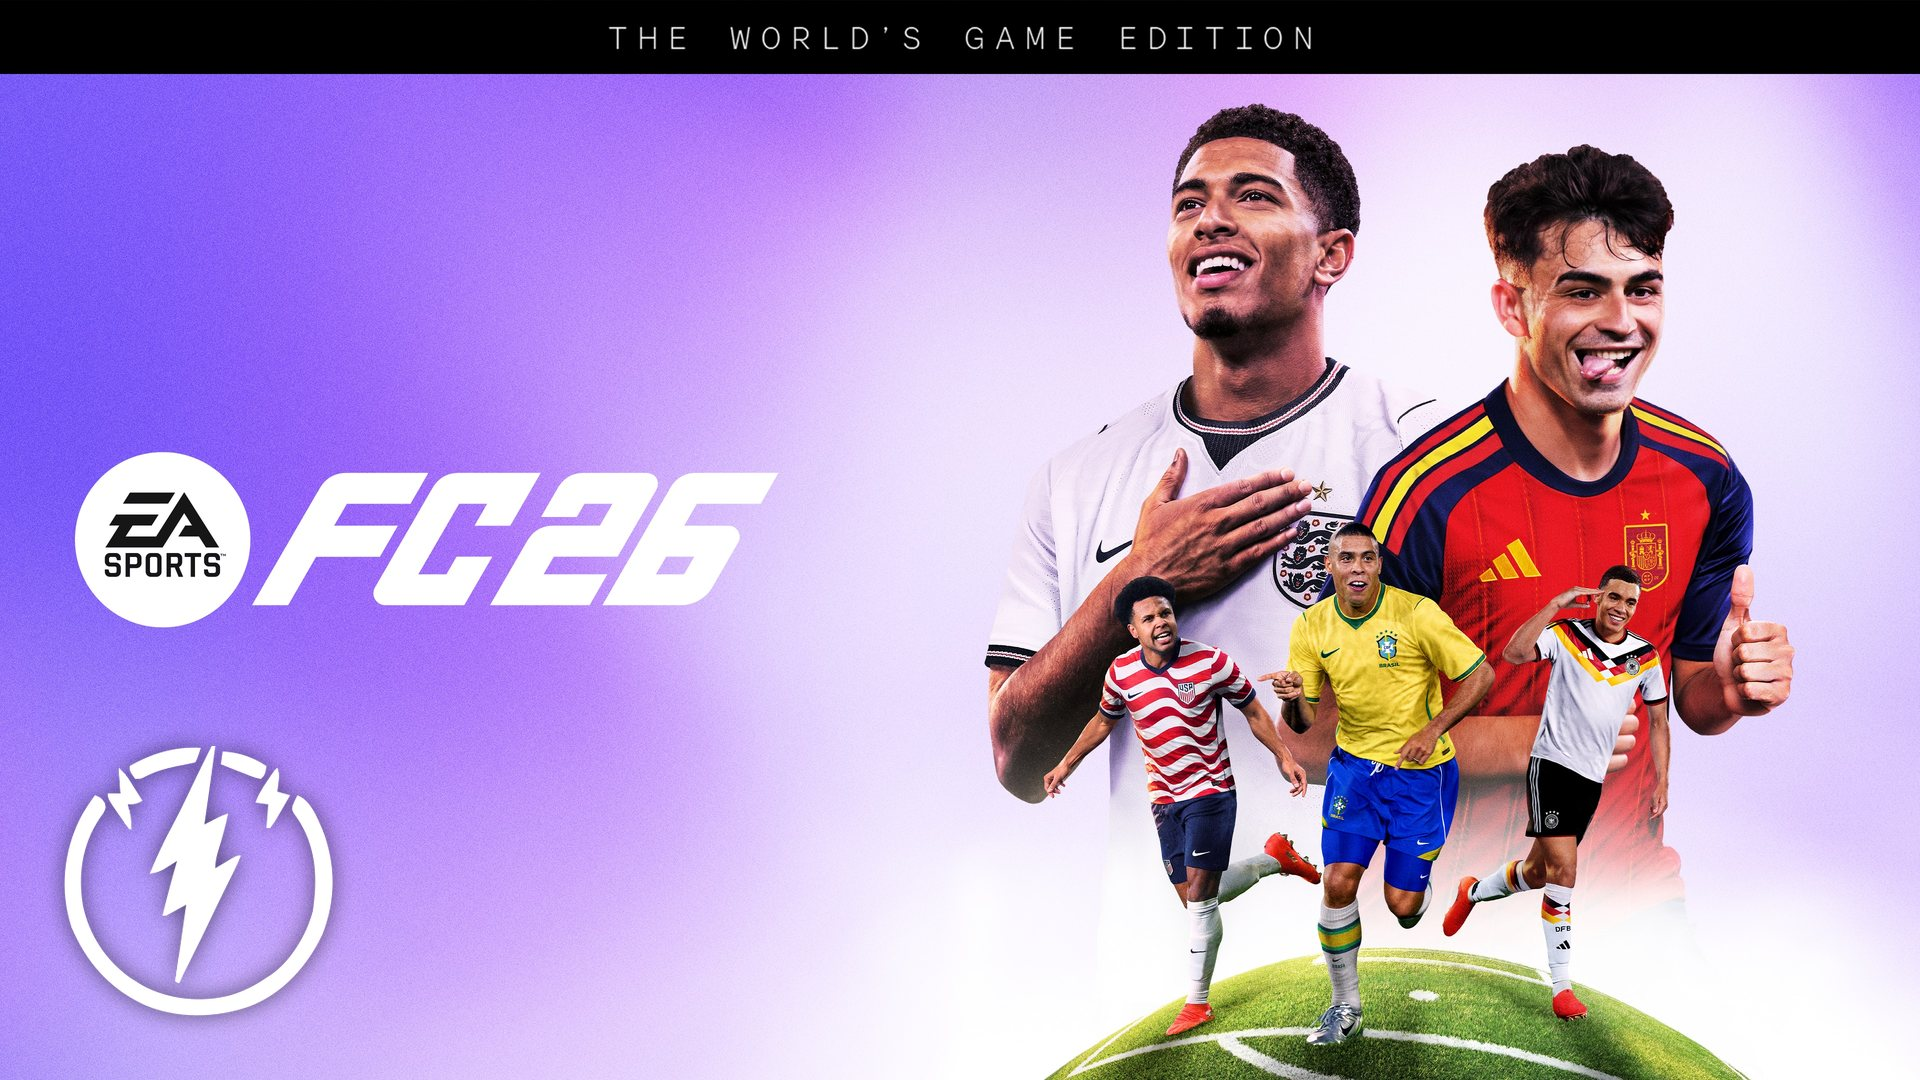
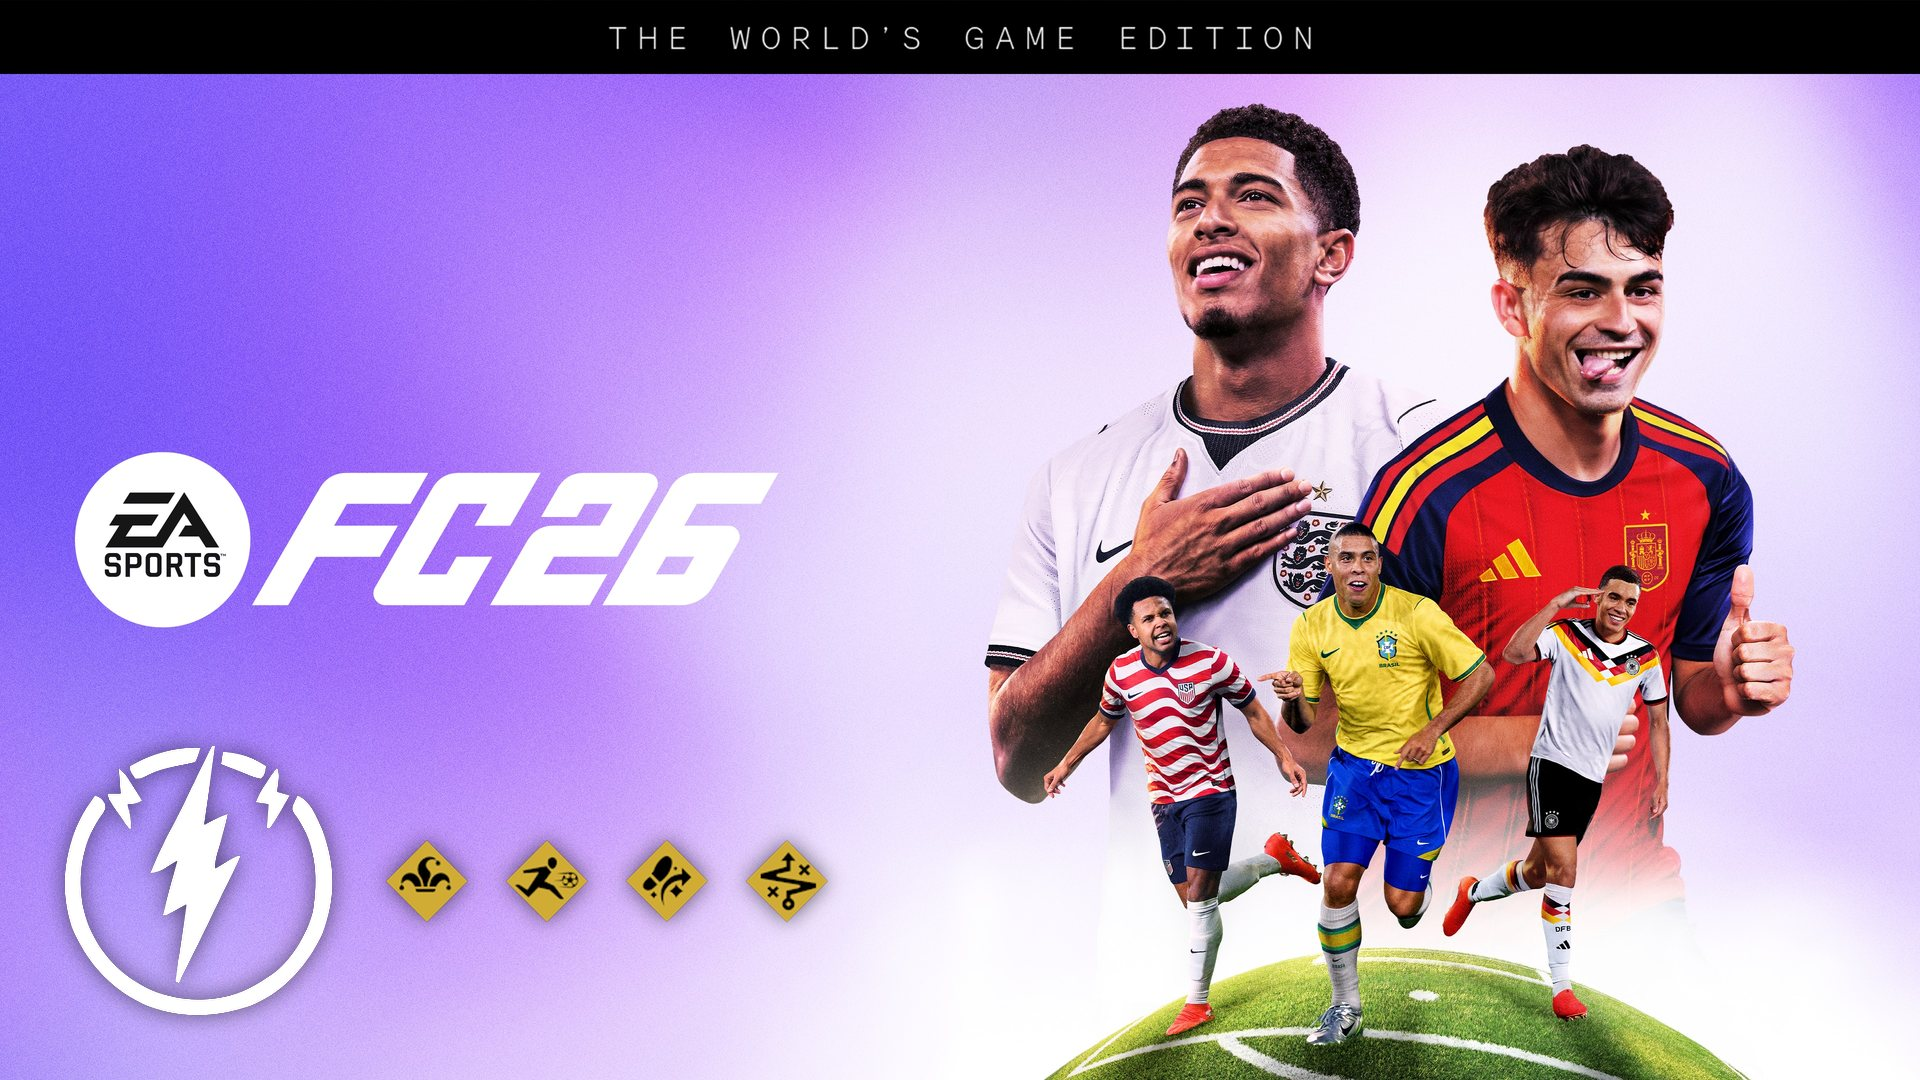
Spoke covers v4: gold signature PlayStyle badges beside the archetype glyph
The app's PlayStyle PNGs are a near-white diamond plate with the pictogram
in opaque black, so a multiply tint golds the plate while keeping the
pictogram dark — no masking tricks needed.

Changed region(s): [[0.1875, 0.7639, 0.4375, 0.8556]]

diff --git a/gen/make-spoke-feats.py b/gen/make-spoke-feats.py
@@ -11,6 +11,7 @@
 # (a phantom filled block); the as-authored render is the reliable one.
 # The artwork also only occupies part of each SVG canvas, so the recovered
 # glyph is bbox-cropped before scaling.
+import json
 import os
 import subprocess
 import sys
@@ -21,11 +22,21 @@ from PIL import Image, ImageFilter
 ROOT = os.path.join(os.path.dirname(__file__), '..')
 ASSETS = os.path.join(ROOT, 'assets')
 KEY_ART = os.path.join(ASSETS, 'EAS_FC26_WGE_KeyArt_RGB_16-9_3840x2160.jpg')
+# The app's official PlayStyle glyphs (70x70 light-grey on transparency) —
+# the same files the articles hotlink from /assets/playstyles/. The app repo
+# sits beside this one on the Mac this script runs on.
+PS_ICONS = os.path.expanduser('~/Desktop/Claude/ClubsUI-main/frontend/public/assets/playstyles')
+GOLD = (212, 175, 55)  # signature gold, matching the articles' chip colour
 
 ARCHES = ['shot-stopper', 'sweeper-keeper', 'progressor', 'boss', 'engine', 'marauder',
           'recycler', 'maestro', 'creator', 'spark', 'magician', 'finisher', 'target']
+SIGNATURE = {a['id']: a['signature']
+             for a in json.load(open(os.path.join(ROOT, 'data', 'archetypes.json')))}
 
-ICON_H = 270          # glyph height on the 1920x1080 canvas
+ICON_H = 270          # archetype glyph height on the 1920x1080 canvas
+PS_H = 96             # signature PlayStyle glyph height
+PS_GAP = 24           # between PlayStyle glyphs
+PS_LEAD = 46          # between the archetype glyph and the first PlayStyle
 MARGIN = 64           # from the bottom-left corner
 
 
@@ -48,6 +59,22 @@ def glyph(tmp, aid):
     return out.crop(box)
 
 
+def ps_gold(slug):
+    """The app's PlayStyle badge recoloured signature-gold.
+
+    The source PNGs are a near-white diamond plate with the pictogram drawn
+    in opaque BLACK — not as transparency. A multiply tint therefore does
+    exactly the right thing: the plate goes gold, the pictogram stays dark,
+    antialiased edges scale in between, and the alpha channel is untouched.
+    """
+    from PIL import ImageChops
+    im = Image.open(os.path.join(PS_ICONS, f'{slug}.png')).convert('RGBA')
+    tinted = ImageChops.multiply(im.convert('RGB'), Image.new('RGB', im.size, GOLD))
+    out = tinted.convert('RGBA')
+    out.putalpha(im.getchannel('A'))
+    return out.resize((round(im.width * PS_H / im.height), PS_H), Image.LANCZOS)
+
+
 def main():
     art = Image.open(KEY_ART).resize((1920, 1080), Image.LANCZOS).convert('RGB')
     art.save(os.path.join(ASSETS, 'feat-spokes.jpg'), quality=84, optimize=True, progressive=True)
@@ -57,16 +84,24 @@ def main():
             g = g.resize((round(g.width * ICON_H / g.height), ICON_H), Image.LANCZOS)
             img = art.copy()
             x, y = MARGIN, 1080 - MARGIN - g.height
-            # Soft shadow only — keeps the white glyph legible on the lighter
-            # purple without drawing any box or line around it.
+            # Everything drawn on one overlay so a single soft shadow carries
+            # both the white glyph and the gold PlayStyles — no boxes, no lines.
+            over = Image.new('RGBA', img.size, (0, 0, 0, 0))
+            over.paste(g, (x, y), g)
+            px = x + g.width + PS_LEAD
+            py = y + (g.height - PS_H) // 2
+            for slug in SIGNATURE[aid]:
+                p = ps_gold(slug)
+                over.paste(p, (px, py), p)
+                px += p.width + PS_GAP
             sh = Image.new('RGBA', img.size, (0, 0, 0, 0))
-            sh.paste(Image.new('RGBA', g.size, (10, 10, 20, 150)), (x, y), g)
+            sh.paste(Image.new('RGBA', over.size, (10, 10, 20, 150)), (0, 0), over)
             sh = sh.filter(ImageFilter.GaussianBlur(10))
             img = Image.alpha_composite(img.convert('RGBA'), sh)
-            img.paste(g, (x, y), g)
+            img = Image.alpha_composite(img, over)
             out = os.path.join(ASSETS, f'feat-spoke-{aid}.jpg')
             img.convert('RGB').save(out, quality=84, optimize=True, progressive=True)
-            print(f'{aid}: {os.path.getsize(out) // 1024}KB glyph {g.width}x{g.height}')
+            print(f'{aid}: {os.path.getsize(out) // 1024}KB glyph {g.width}x{g.height} + {len(SIGNATURE[aid])} sig')
 
 
 if __name__ == '__main__':
